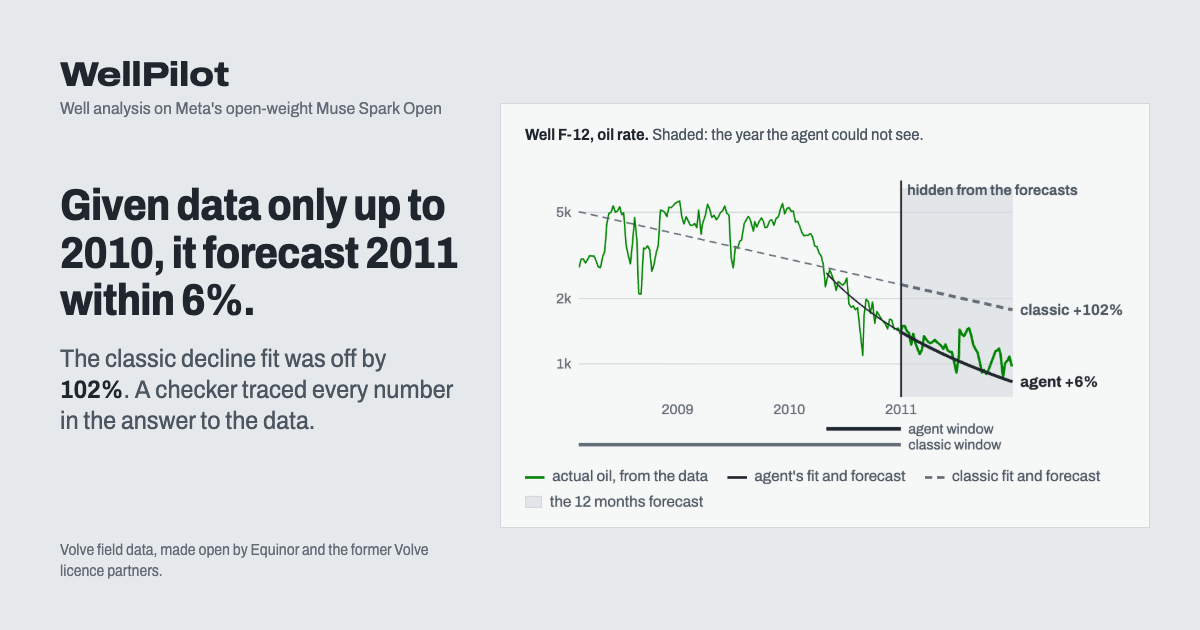
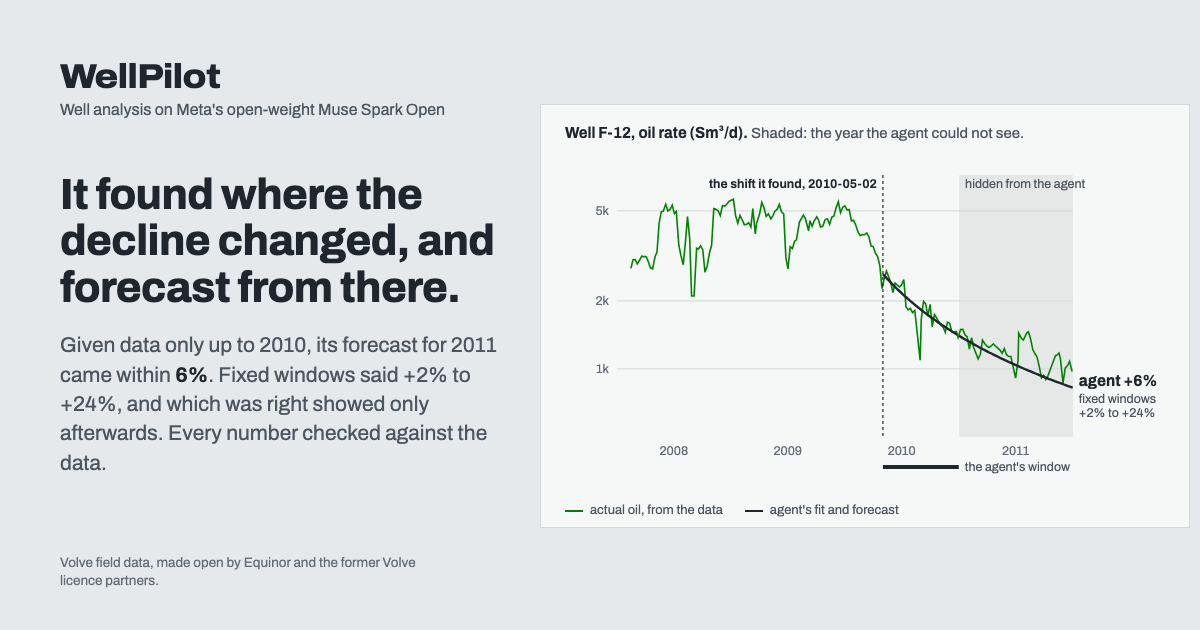
The main example leads with the window the agent chose, not +102%
The whole-history fit is a strawman after an obvious change, and the 12-month
window came closer than the agent (+2% to +6%). What no fixed method had that
day is a reason to pick a window: the agent dated F-12's shift to 2010-05-02
itself and fitted after it. The reveal now says so (hindsight reports the
change that dates the agent's window), the README's story and the link
preview lead with it, and og.png is redrawn by scripts/og_card.py without the
whole-history line. Also: about 660 tests; the build began at the Oct 26
kickoff (CLAUDE.md said Oct 27).

diff --git a/frontend/src/components/Hindsight.tsx b/frontend/src/components/Hindsight.tsx
@@ -152,13 +152,21 @@ function ForecastCase({ f }: { f: Hindsight['forecasts'][number] }) {
       </p>
       {f.fixed_windows && f.fixed_windows.length > 0 && (
         <p className="hindsight-fixed">
-          Decline fits made the same day on fixed windows said{' '}
+          {f.window_from_change ? (
+            <>
+              <strong>It chose its own window:</strong> it fitted from {f.window_from_change.date}, where it had found{' '}
+              {f.well}&rsquo;s rate shifting ({f.window_from_change.evidence_id}), not a fixed length of history.{' '}
+            </>
+          ) : (
+            <>It fitted from {agent.window_start}, a window it chose itself. </>
+          )}
+          Fits made the same day on fixed windows said{' '}
           {f.fixed_windows
             .filter((w) => w.error !== null)
             .map((w) => `${signed(w.error!)} (last ${w.months} months)`)
             .join(', ')}
-          , and on the whole history {signed(classic.error)}. Which window was right is known only afterwards; the agent
-          chose its own, from {agent.window_start}.
+          : one of them came closer, but which one was known only afterwards. The textbook fit on the whole history, which
+          averages in the years before the change, said {signed(classic.error)}.
         </p>
       )}
       {!f.fixed_windows?.length && (

diff --git a/frontend/index.html b/frontend/index.html
@@ -15,7 +15,7 @@
     <meta property="og:title" content="WellPilot: well analysis whose every number is checked" />
     <meta
       property="og:description"
-      content="Asked with the data up to 2010, the agent forecast 2011 within 6%; the classic decline fit was off by 102%. Every number traces to the tool result and code behind it."
+      content="Asked with the data up to 2010, the agent found where the well's decline changed, fitted from there and forecast 2011 within 6%. Every number traces to the tool result and code behind it."
     />
     <meta property="og:url" content="__ORIGIN__/" />
     <meta property="og:image" content="__ORIGIN__/og.png" />

diff --git a/frontend/src/api.ts b/frontend/src/api.ts
@@ -418,6 +418,7 @@ export type Hindsight = {
     classic_warned: boolean
     // Fits on the last 3, 6, 12 and 24 months, made the same day: the fair baselines.
     fixed_windows?: { months: number; p50_sm3: number; error: number | null }[]
+    window_from_change?: { date: string; evidence_id: string; text: string | null } | null
     agent_range: { p90: number; p10: number }
     p50_by_model?: Record<string, number> | null
     calibrated_band: { p90: number; p10: number; holds_actual: boolean } | null

diff --git a/scripts/og_card.py b/scripts/og_card.py
@@ -1,0 +1,171 @@
+"""Draw frontend/public/og.png, the link preview and the README's first picture.
+
+The time machine's featured run: data cut at 2010-12-31, the agent dates F-12's shift
+itself, fits after it and forecasts 2011; the shaded year is what it could not see. The
+numbers come from the run's hindsight on the processed data, drawn as SVG in an HTML card
+and captured by headless Chrome at 1200x630.
+
+    cd backend && uv run python ../scripts/og_card.py [run id]
+"""
+
+import json
+import math
+import subprocess
+import sys
+import tempfile
+from datetime import date
+from pathlib import Path
+
+from wellpilot.data.store import ProductionStore
+from wellpilot.hindsight import hindsight
+
+ROOT = Path(__file__).resolve().parents[1]
+CHROME = "/Applications/Google Chrome.app/Contents/MacOS/Google Chrome"
+FONT = ROOT / "frontend/node_modules/@fontsource-variable/archivo/files"
+
+run_id = sys.argv[1] if len(sys.argv) > 1 else "8aef8d548380"
+saved = json.loads((ROOT / f"backend/tests/fixtures/runs/{run_id}.json").read_text())
+cut = date.fromisoformat(saved["as_of"])
+processed = ROOT / "data/processed"
+h = hindsight(
+    {**saved, "verified": True}, ProductionStore(processed), ProductionStore(processed, cut)
+)
+f = h["forecasts"][0]
+agent = f["methods"][0]
+fixed = [w["error"] for w in f["fixed_windows"] if w["error"] is not None]
+shift = (f.get("window_from_change") or {}).get("date") or agent["window_start"]
+
+# Plot geometry: 2008 to 2012 across, 500 to 6000 Sm3/d up a log scale.
+W, H = 600, 336
+L, R, T, B = 52, 92, 34, 58
+T0, T1 = date(2008, 1, 1).toordinal(), date(2012, 1, 1).toordinal()
+LO, HI = math.log10(500), math.log10(6000)
+
+
+def x(day: str) -> float:
+    return L + (W - L - R) * (date.fromisoformat(day[:10]).toordinal() - T0) / (T1 - T0)
+
+
+def y(rate: float) -> float:
+    v = math.log10(min(max(rate, 500), 6000))
+    return T + (H - T - B) * (1 - (v - LO) / (HI - LO))
+
+
+def line(dates: list[str], rates: list[float]) -> str:
+    return " ".join(
+        f"{x(d):.1f},{y(r):.1f}" for d, r in zip(dates, rates, strict=True) if r and r > 0
+    )
+
+
+actual = line(f["rate"]["date"], f["rate"]["rate"])
+fit = line(agent["fitted"]["date"], agent["fitted"]["rate"])
+ahead = line(agent["forecast"]["date"], agent["forecast"]["rate"])
+end_x, end_y = x(agent["forecast"]["date"][-1]), y(agent["forecast"]["rate"][-1])
+hidden = x(f["forecast_from"])
+pct = round(agent["error"] * 100)
+low, high = round(min(fixed) * 100), round(max(fixed) * 100)
+
+grid = "".join(
+    f'<line x1="{L}" x2="{W - R}" y1="{y(v):.1f}" y2="{y(v):.1f}" class="grid"/>'
+    f'<text x="{L - 8}" y="{y(v) + 4:.1f}" class="tick" text-anchor="end">{v // 1000}k</text>'
+    for v in (1000, 2000, 5000)
+)
+years = "".join(
+    f'<text x="{x(f"{yr}-07-01"):.1f}" y="{H - B + 18}" class="tick" '
+    f'text-anchor="middle">{yr}</text>'
+    for yr in range(2008, 2012)
+)
+svg = f"""
+<svg viewBox="0 0 {W} {H}" width="{W}" height="{H}">
+  <rect x="{hidden:.1f}" y="{T - 18}" width="{W - R - hidden:.1f}" height="{H - B - T + 18}"
+        class="hidden"/>
+  <text x="{hidden + 6:.1f}" y="{T - 5}" class="note">hidden from the agent</text>
+  {grid}{years}
+  <polyline points="{actual}" class="oil"/>
+  <line x1="{x(shift):.1f}" x2="{x(shift):.1f}" y1="{T - 18}" y2="{H - B}" class="shift"/>
+  <text x="{x(shift) - 6:.1f}" y="{T - 5}" class="note strong" text-anchor="end">
+    the shift it found, {shift}</text>
+  <polyline points="{fit}" class="agent"/>
+  <polyline points="{ahead}" class="agent"/>
+  <text x="{end_x + 6:.1f}" y="{end_y - 2:.1f}" class="label">agent +{pct}%</text>
+  <text x="{end_x + 6:.1f}" y="{end_y + 15:.1f}" class="small">fixed windows</text>
+  <text x="{end_x + 6:.1f}" y="{end_y + 29:.1f}" class="small">+{low}% to +{high}%</text>
+  <line x1="{x(agent["window_start"]):.1f}" x2="{x(agent["window_end"]):.1f}"
+        y1="{H - B + 30}" y2="{H - B + 30}" class="window"/>
+  <text x="{x(agent["window_end"]) + 6:.1f}" y="{H - B + 34}" class="small">
+    the agent's window</text>
+</svg>"""
+
+page = f"""<!doctype html><meta charset="utf-8">
+<style>
+@font-face {{ font-family: Archivo; font-weight: 100 900; font-stretch: 62% 125%;
+  src: url("file://{FONT}/archivo-latin-wdth-normal.woff2") format("woff2"),
+       url("file://{FONT}/archivo-latin-standard-normal.woff2") format("woff2"); }}
+* {{ margin: 0; box-sizing: border-box; }}
+body {{ width: 1200px; height: 630px; background: #e6e9eb; color: #1f262d;
+  font-family: Archivo, system-ui, sans-serif; display: grid;
+  grid-template-columns: 440px 1fr; gap: 40px; padding: 58px 50px 46px 60px; }}
+.brand {{ font-size: 34px; font-weight: 800; font-stretch: 112%; letter-spacing: -0.5px; }}
+.tag {{ font-size: 16px; color: #4c5661; margin-top: 6px; }}
+h1 {{ font-size: 43px; line-height: 1.08; font-weight: 750; margin-top: 54px;
+  letter-spacing: -0.6px; }}
+.sub {{ font-size: 21px; line-height: 1.4; color: #4c5661; margin-top: 20px; }}
+.sub b {{ color: #1f262d; }}
+.credit {{ font-size: 13.5px; color: #626b76; position: absolute; left: 60px; bottom: 40px;
+  width: 400px; line-height: 1.35; }}
+.panel {{ background: #f6f7f7; border: 1px solid #d3d8dc; margin-top: 46px; height: 424px;
+  padding: 20px 24px; }}
+.title {{ font-size: 15px; color: #4c5661; }} .title b {{ color: #1f262d; }}
+svg {{ display: block; margin-top: 18px; overflow: visible; }}
+.grid {{ stroke: #d3d8dc; }} .tick {{ font-size: 12.5px; fill: #626b76; }}
+.hidden {{ fill: rgba(31, 38, 45, 0.07); }}
+.oil {{ fill: none; stroke: #008300; stroke-width: 1.6; }}
+.agent {{ fill: none; stroke: #1f262d; stroke-width: 2.4; }}
+.shift {{ stroke: #1f262d; stroke-width: 1.2; stroke-dasharray: 3 3; }}
+.window {{ stroke: #1f262d; stroke-width: 4; }}
+.note {{ font-size: 12.5px; fill: #4c5661; }} .strong {{ fill: #1f262d; font-weight: 650; }}
+.label {{ font-size: 15px; font-weight: 750; fill: #1f262d; }}
+.small {{ font-size: 12.5px; fill: #4c5661; }}
+.key {{ font-size: 13px; color: #4c5661; margin-top: 8px; display: flex; gap: 22px; }}
+.key i {{ display: inline-block; width: 18px; height: 0; border-top: 2px solid; margin-right: 7px;
+  vertical-align: middle; }}
+</style>
+<div>
+  <div class="brand">WellPilot</div>
+  <div class="tag">Well analysis on Meta's open-weight Muse Spark Open</div>
+  <h1>It found where the decline changed, and forecast from there.</h1>
+  <p class="sub">Given data only up to {cut.year}, its forecast for {cut.year + 1} came within
+    <b>{pct}%</b>. Fixed windows said +{low}% to +{high}%, and which was right showed only
+    afterwards. Every number checked against the data.</p>
+  <p class="credit">Volve field data, made open by Equinor and the former Volve licence
+    partners.</p>
+</div>
+<div class="panel">
+  <div class="title"><b>Well {f["well"]}, oil rate (Sm³/d).</b> Shaded: the year the agent could
+    not see.</div>
+  {svg}
+  <div class="key"><span><i style="border-color:#008300"></i>actual oil, from the data</span>
+    <span><i style="border-color:#1f262d;border-top-width:2.5px"></i>agent's fit and
+    forecast</span></div>
+</div>"""
+
+with tempfile.TemporaryDirectory() as tmp:
+    html = Path(tmp) / "card.html"
+    html.write_text(page)
+    out = ROOT / "frontend/public/og.png"
+    subprocess.run(
+        [
+            CHROME,
+            "--headless",
+            "--disable-gpu",
+            "--hide-scrollbars",
+            "--allow-file-access-from-files",
+            "--force-device-scale-factor=1",
+            "--window-size=1200,630",
+            f"--screenshot={out}",
+            html.as_uri(),
+        ],
+        check=True,
+        capture_output=True,
+    )
+print(f"wrote {out} ({run_id}: agent {pct:+d}%, fixed windows {low:+d}% to {high:+d}%)")

diff --git a/backend/src/wellpilot/hindsight.py b/backend/src/wellpilot/hindsight.py
@@ -80,6 +80,7 @@ def _forecast_hindsight(
         )
 
     band = result.get("calibrated_band_sm3")
+    window_start = str(args.get("start") or "")[:10]
     return {
         "evidence_id": evidence["id"],
         "well": well,
@@ -95,6 +96,8 @@ def _forecast_hindsight(
         ],
         "classic_warned": bool(fit_warnings(classic_fit)),
         "fixed_windows": fixed,
+        # Why the agent's window starts where it does, when a change it found dates it.
+        "window_from_change": _change_at(run, well, window_start) if window_start else None,
         "agent_range": {"p90": reported["p90"], "p10": reported["p10"]},
         "p50_by_model": result.get("p50_by_model_sm3"),  # what each Arps model would say
         "calibrated_band": (
@@ -117,6 +120,34 @@ def _forecast_hindsight(
             ],
         },
     }
+
+
+CHANGE_KINDS = {"regime_change", "shift_down", "step_down"}
+
+
+def _change_at(run: dict, well: str, day: str) -> dict | None:
+    """The change in the well's oil rate that the run's own evidence dates to `day` (a
+    detect_events regime change, a screen's shift or step), or None."""
+    for item in (run.get("evidence") or {}).values():
+        if item.get("tool") == "detect_events" and item.get("arguments", {}).get("well") == well:
+            records = item.get("result") or []
+        elif item.get("tool") == "field_screen":
+            rows = (item.get("result") or {}).get("wells") or []
+            records = [i for w in rows if w.get("well") == well for i in w.get("issues") or []]
+        else:
+            continue
+        for record in records:
+            if not isinstance(record, dict) or record.get("kind") not in CHANGE_KINDS:
+                continue
+            if record.get("kind") == "regime_change" and record.get("signal") != "oil_rate":
+                continue
+            if str(record.get("start") or record.get("since") or "")[:10] == day:
+                return {
+                    "date": day,
+                    "evidence_id": item["id"],
+                    "text": record.get("summary") or record.get("text"),
+                }
+    return None
 
 
 def _water_cut_at(daily: pd.DataFrame, at: pd.Timestamp) -> float | None:

diff --git a/backend/tests/test_hindsight.py b/backend/tests/test_hindsight.py
@@ -110,3 +110,27 @@ def test_the_forecast_the_answer_cites_comes_first(stores) -> None:
         h = hindsight(run, full, past)
 
     assert [(f["evidence_id"], f["cited"]) for f in h["forecasts"]] == [("E2", True), ("E1", False)]
+
+
+def test_the_reveal_says_when_the_agents_window_starts_at_a_change_it_found(stores) -> None:
+    """The fair story (the outside review): not '+6% against a whole-history fit', but the
+    agent dating its own window from the shift it had detected."""
+    full, past = stores
+    run = run_with_forecast(past, well="F-12", start="2010-05-02")
+    run["evidence"]["E2"] = {
+        "id": "E2",
+        "tool": "detect_events",
+        "arguments": {"well": "F-12"},
+        "result": [
+            {"kind": "regime_change", "signal": "water_cut", "start": "2010-02-28"},
+            {"kind": "regime_change", "signal": "oil_rate", "start": "2010-05-02", "summary": "x"},
+        ],
+    }
+    other = run_with_forecast(past, well="F-12", start="2010-07-18")
+    with warnings.catch_warnings():
+        warnings.simplefilter("ignore")
+        (found,) = hindsight(run, full, past)["forecasts"]
+        (fixed,) = hindsight(other, full, past)["forecasts"]
+
+    assert found["window_from_change"] == {"date": "2010-05-02", "evidence_id": "E2", "text": "x"}
+    assert fixed["window_from_change"] is None

diff --git a/README.md b/README.md
@@ -2,7 +2,7 @@
 
 **Ask why an oil well changed. An AI agent works it out from the field's own data and reports, and a checker verifies every number in its answer before you see it.**
 
-![Given data only up to the end of 2010, the agent forecast F-12's 2011 oil within 6%; the textbook decline fit was 102% too high](frontend/public/og.png)
+![Given data only up to the end of 2010, the agent found where F-12's decline changed, fitted from there, and forecast 2011 within 6%](frontend/public/og.png)
 
 Oil wells produce less over time, and engineers have to tell why (the reservoir running out, water flooding in, a broken sensor, work done on the well) and what comes next. Today that takes hours across production databases, PDF reports and spreadsheets. WellPilot answers in about a minute, on Meta's open-weight model Muse Spark Open, and every number in its answer links to the data and the code that produced it.
 
@@ -15,7 +15,7 @@ Built for the Meta Global AI Developer Hackathon (Oct 26 - Nov 4, 2026), Indie t
 
 1. **Go back to the end of 2010.** The first example asks the agent which wells need attention, with the data cut at 2010-12-31: it cannot see anything later.
 2. **It finds F-12, and a broken sensor rather than a dying reservoir.** F-12's downhole pressure reads zero from 2010-10-12, while its oil and water flow on smoothly: the gauge died, not the reservoir. Its rate fell as injection water broke through, about two years after first oil, as the 2005 development plan expected.
-3. **It forecasts 2011.** 359,000 m³ of oil (about 2.3 million barrels), with a range from its own past errors. "Show what happened next" opens the rest: F-12 made 340,000 (+6%, inside the range). Decline fits made the same day on the last 3 to 24 months said +2% to +24%, and on the whole history +102%; which window was right is known only afterwards, and the agent picked its own, after the change it found.
+3. **It forecasts 2011 from the change it found.** It dates the shift in F-12's rate to 2010-05-02 itself and fits the decline only after it: 359,000 m³ of oil (about 2.3 million barrels), with a range from its own past errors. "Show what happened next" opens the rest: F-12 made 340,000 (+6%, inside the range). Fits made the same day on fixed windows said +2% to +24%: the last 12 months came closer, but nothing that day said which window to trust, while the agent's window came from the data. (The textbook fit on the whole history, plateau years included, said +102%.)
 4. **Click any number.** It opens the exact tool result it came from, the value marked, with the Python that produced it.
 5. **Try to fool the checker.** Change a number, add a cause, give the value to another well, and the checker sends it back, citing the source. Or let the model try: it wrote 36 false versions of verified answers; the checker caught 30, and the four real holes it found are closed.
 
@@ -99,7 +99,7 @@ From the recorded runs and the data tabs (all reproducible with the tools in thi
 - **Water, not pressure.** From 2010 to 2014 F-12's liquid rate held near 5,000 Sm3/d while its choke opened from about 53% to 100% and water cut rose from 0.57 to 0.96: the oil fell because water took the well's capacity. Injection replaced what was produced at reservoir conditions (a ratio of 1.0-1.1 every year with the plan's oil formation volume factor, 1.385), so pressure support held. With data to the end of 2012, the WOR trend left 165k Sm3 before a 0.90 water cut and 560k before 0.95. That overstated it: the well reached a 0.95 water cut in April 2014 after about 162k, and more than half of the 444k it made from 2013 on (248k) came after the November 2014 water shut-off, which no trend could see.
 - **A report only a picture can answer.** F-11 B's completion report (filed under F-12 in the Volve data) keeps its survey tables and the completion's time-depth chart as images: the chart ends the job on 23.07.2013, and the production data shows F-11's first oil the next day.
 - **The field outlived its plan.** The plan's P50 forecast was 11.34 million Sm3 by 2012. The field produced 10.04 million Sm3 by 2016, 2.48 million of it after the plan's last year, from wells drilled later (F-11, F-15 D, F-1 C) and an injector turned producer (F-5). The plan assumed first oil in March 2007 and the field started in February 2008, so year by year from each start: ahead in the first year (1.76 against 1.53 million Sm3), behind from the second.
-- **What the agent would have said at the end of 2010.** With data cut at 2010-12-31 it ranked F-12 first (dead gauge, rate 55% lower since May 2010) and forecast 359k Sm3 of oil for 2011, with a range of 324k-470k from its past errors. F-12 then made 340k (+6%, inside the range). Fits on fixed windows made the same day said +2% (last 12 months) to +24% (last 24 months); the whole-history fit said 685k (+102%), since it averages the plateau years in. The gauge never came back.
+- **What the agent would have said at the end of 2010.** With data cut at 2010-12-31 it ranked F-12 first (dead gauge, rate 55% lower since May 2010), fitted the decline from the 2010-05-02 shift it had detected, and forecast 359k Sm3 of oil for 2011, with a range of 324k-470k from its past errors. F-12 then made 340k (+6%, inside the range). Fits on fixed windows made the same day said +2% (last 12 months) to +24% (last 24 months): one did better, but which one was known only afterwards. The whole-history fit said 685k (+102%), since it averages the plateau years in. The gauge never came back.
 
 ## How accurate are its forecasts?
 
@@ -144,7 +144,7 @@ flowchart LR
 - A number the text ties to a date ("0.85 in 2009-06", "55% on 2010-05-02") must stand in that date's row or event. A number found in its evidence must not be held there only for another well, as another quantity, or with the opposite sign; a "from X to Y" must run the way the evidence's change does.
 - **What the checker does not check:** meaning. "Pressure collapsed to 0" would pass when the evidence says the gauge reads 0; whether the reasoning holds is for the reader, and that is why every number is one click from its source.
 - **Quality gates:** `python -m wellpilot.ingest.facts_gate` (free) checks the report facts: the plan's table rows, the design limits, the key quotes verbatim, no unverified quote, quotes located on their pages. `python -m wellpilot.eval` runs 12 real questions through the agent and checks each answer: verified, the right tools called, the facts any correct answer contains, claims in plain words, a step and cost budget. Latest runs (Oct 27, Muse Spark Open): all 12 answers verified; 6 pass every check, the others go over a step or cost budget or write a claim with more than four numbers.
-- **Backend:** Python 3.13, FastAPI, Server-Sent Events, DuckDB, pandas, scipy, ruptures, pypdfium2. Runs are background tasks saved as JSON and replayable. About 560 tests, including the featured runs replayed in CI.
+- **Backend:** Python 3.13, FastAPI, Server-Sent Events, DuckDB, pandas, scipy, ruptures, pypdfium2. Runs are background tasks saved as JSON and replayable. About 660 tests, including the featured runs replayed in CI.
 - **Frontend:** React, TypeScript, Vite, uPlot, hand-written SVG charts. A control-room palette after ISA-101: grey by default, colour only for meaning (oil green, water blue, amber caution, red alarm). "Verified" is a check mark and words, never green, since green means oil. One more colour, indigo, marks only what you can act on and where you are (the step, the tab, buttons, links), far from water's blue.
 
 ## Next: the checker as a teacher
